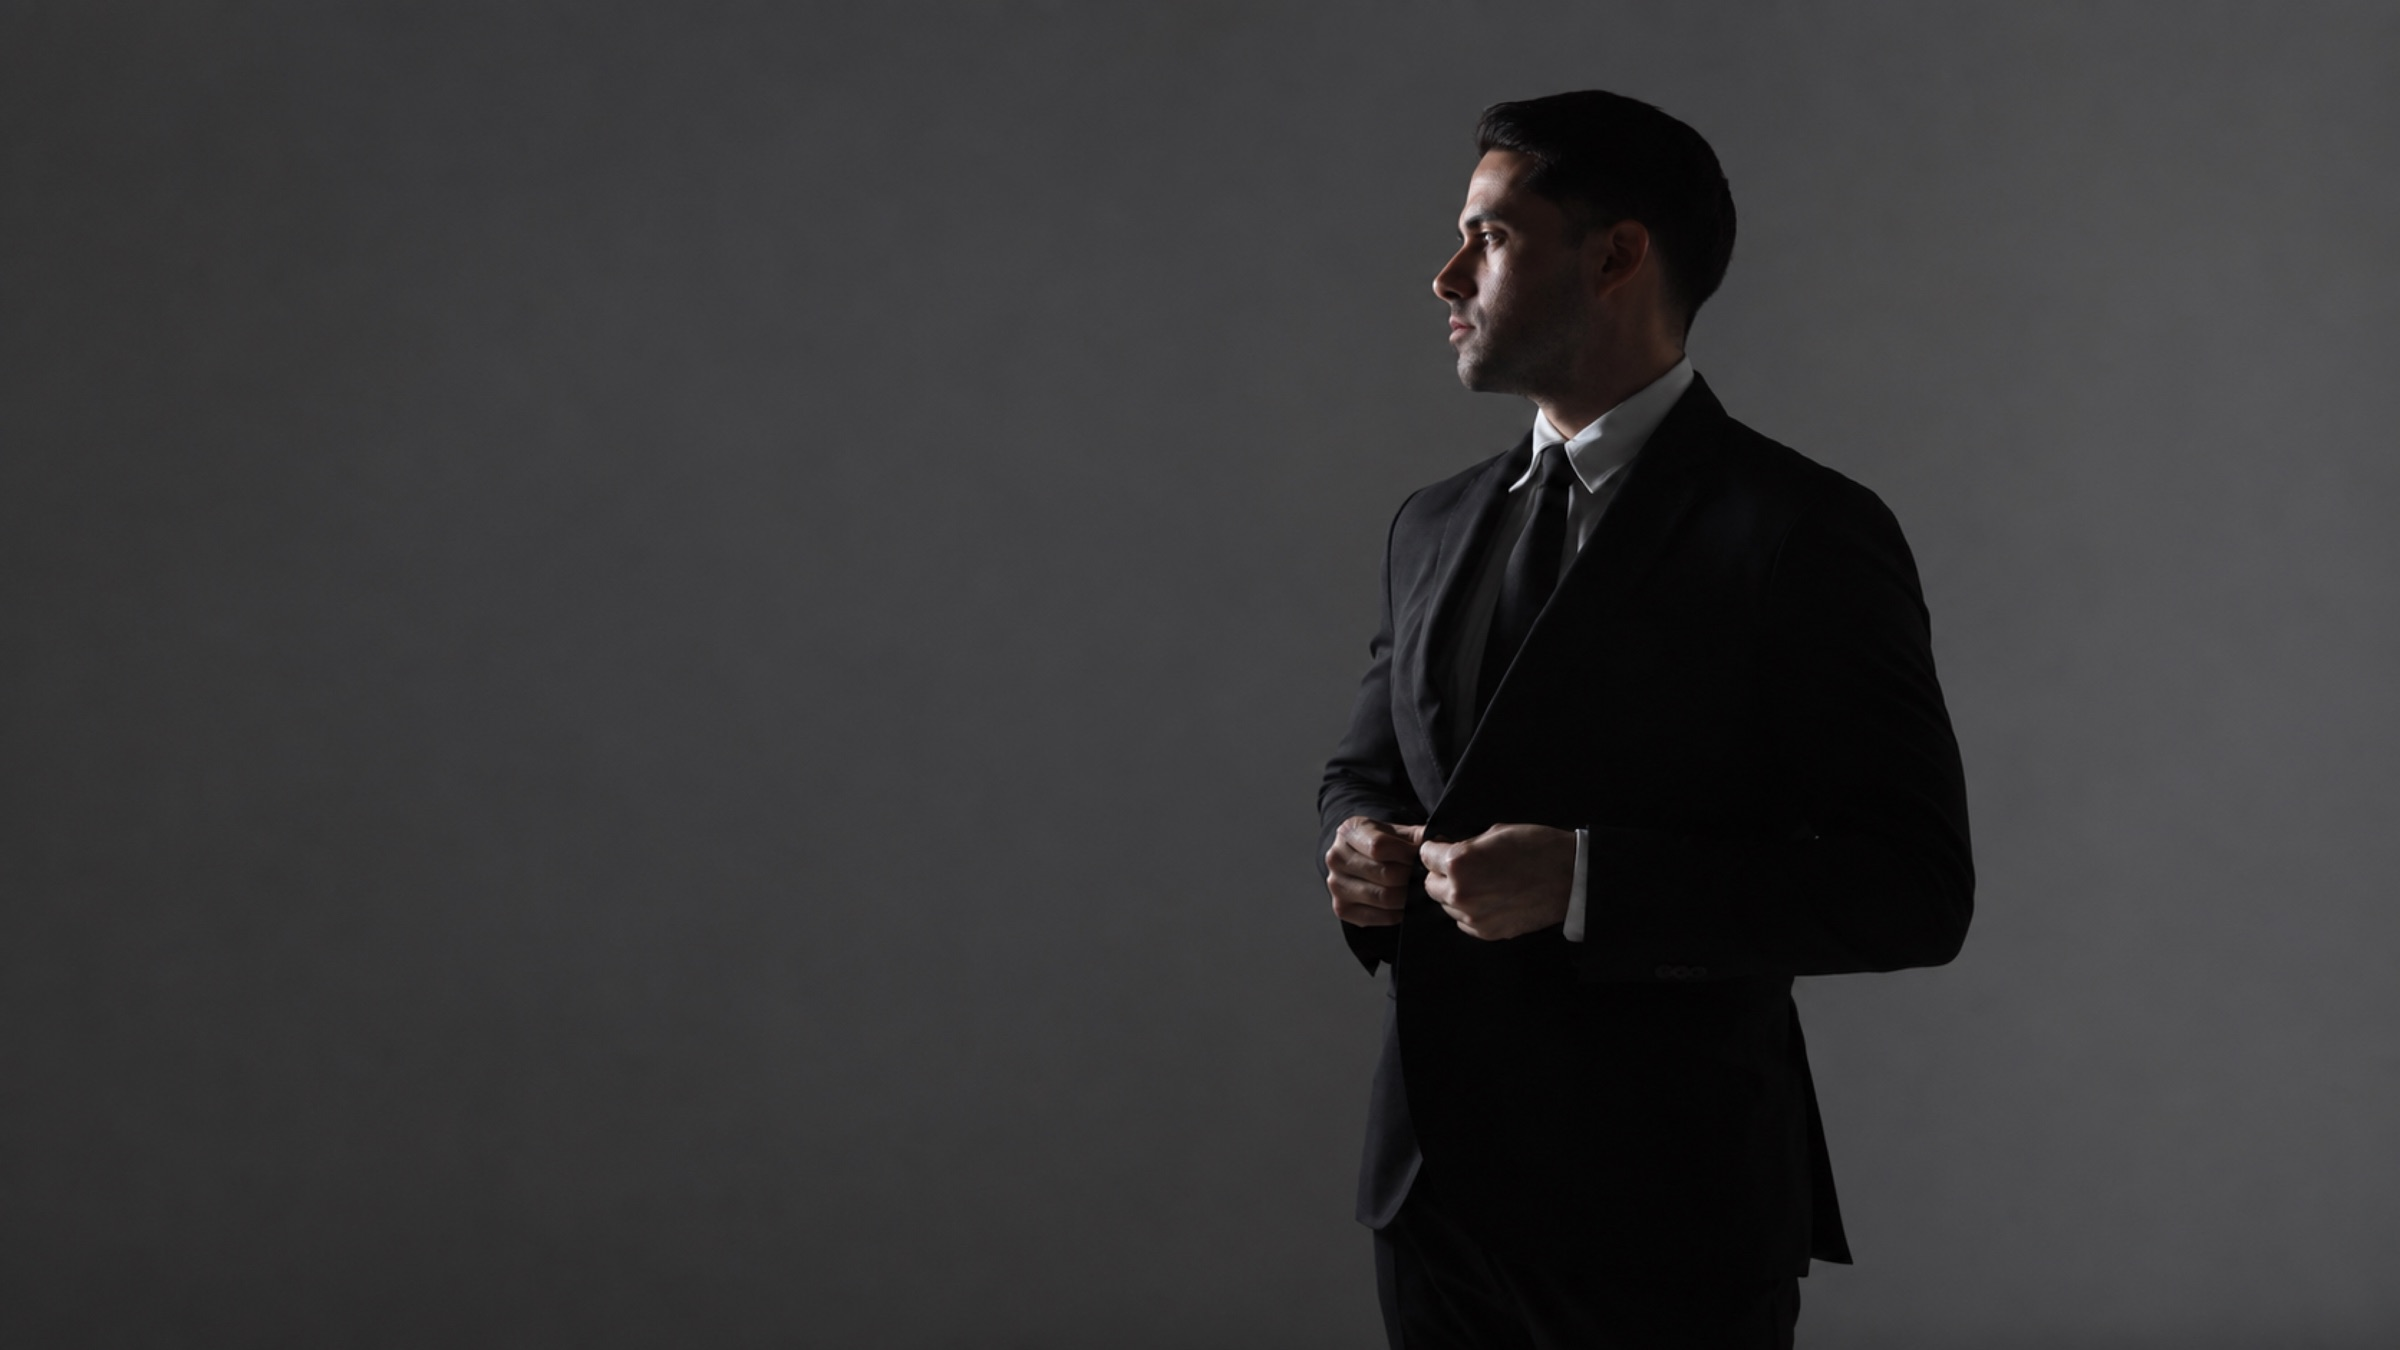
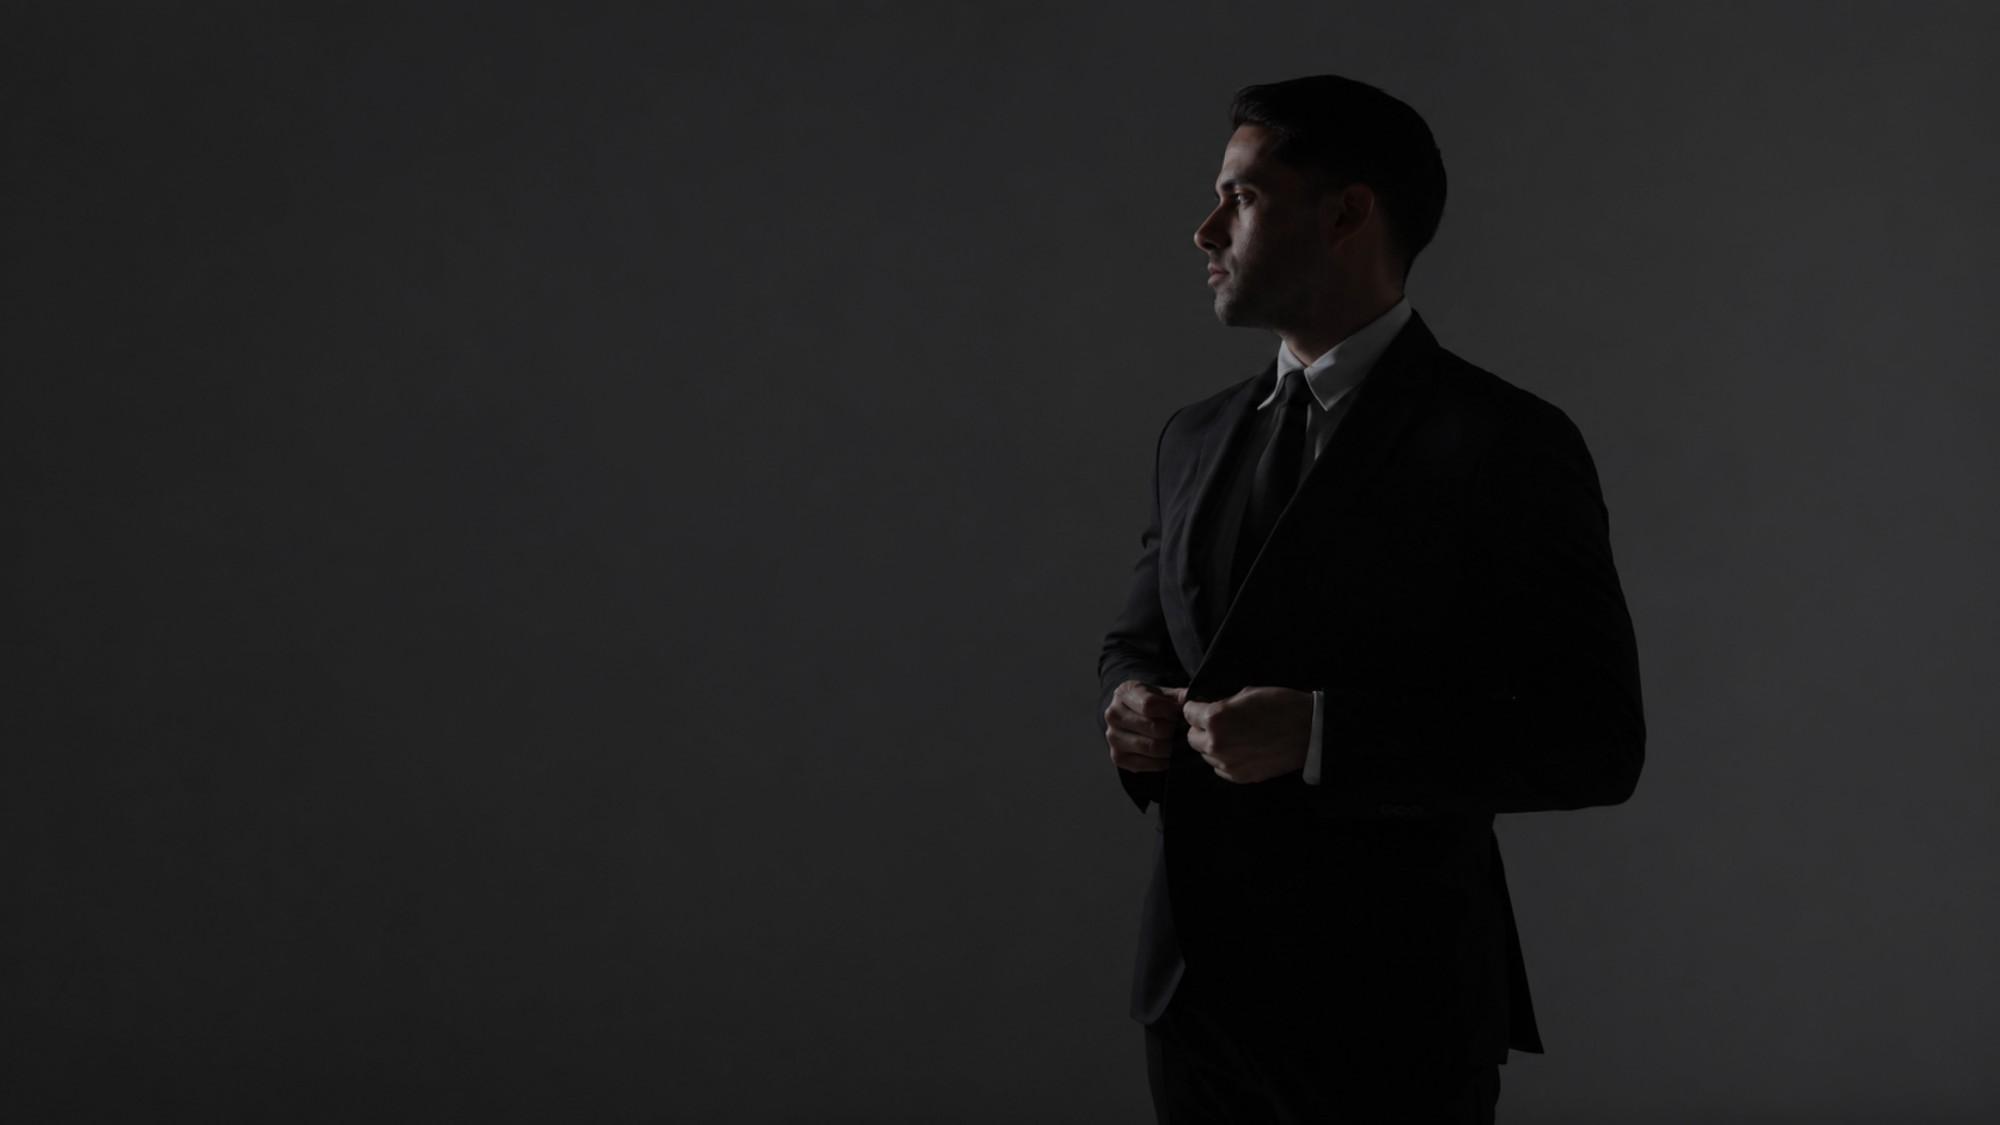
Reemplazar foto del hero por versión optimizada y quitar overlay CSS
La nueva foto ya viene con el grading oscuro aplicado, así que el
degradado que oscurecía la imagen desde CSS ya no es necesario.

diff --git a/css/styles.css b/css/styles.css
@@ -251,7 +251,7 @@ a {
   align-items: center;
   padding-top: 88px;
   background: var(--color-ink);
-  background-image: linear-gradient(rgba(38, 38, 39, 0.45), rgba(38, 38, 39, 0.7)), url('../assets/images/dave-hero.jpg');
+  background-image: url('../assets/images/dave-hero.jpg');
   background-size: cover;
   background-position: top center;
   color: var(--color-white);
